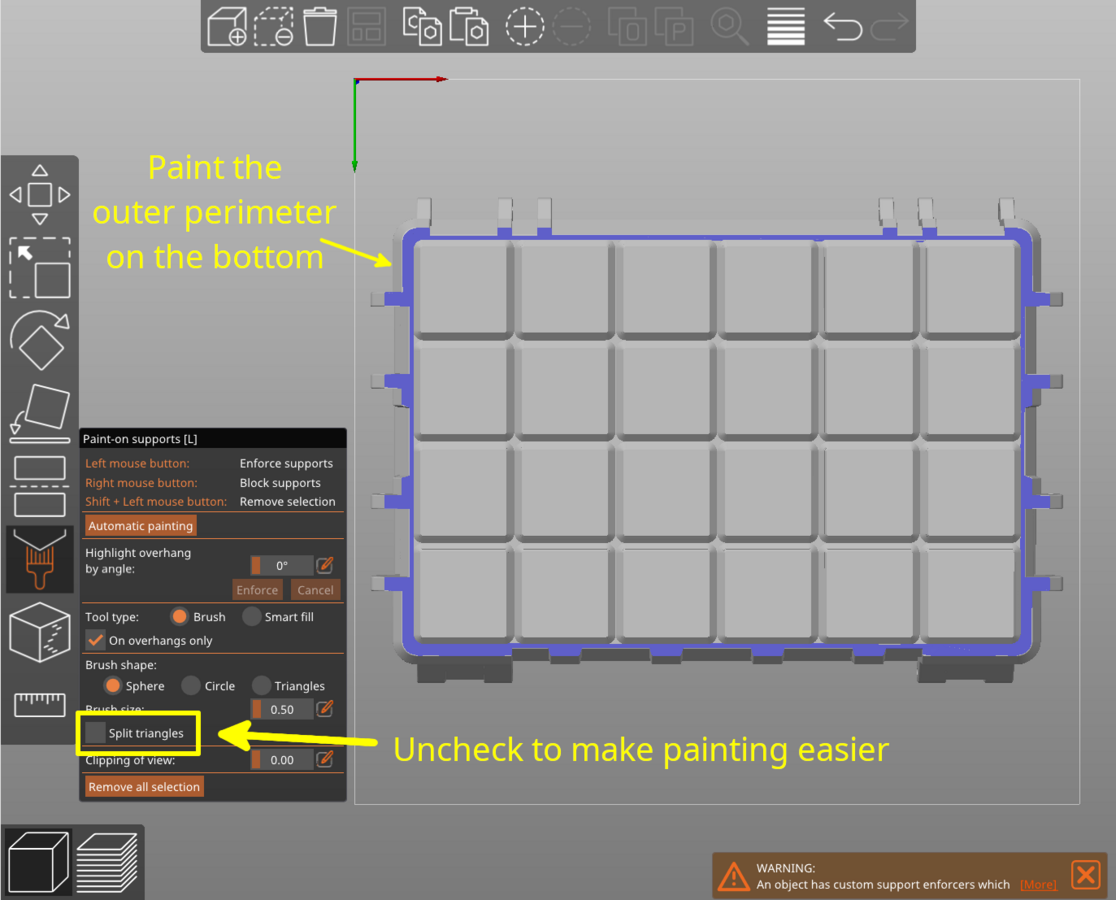
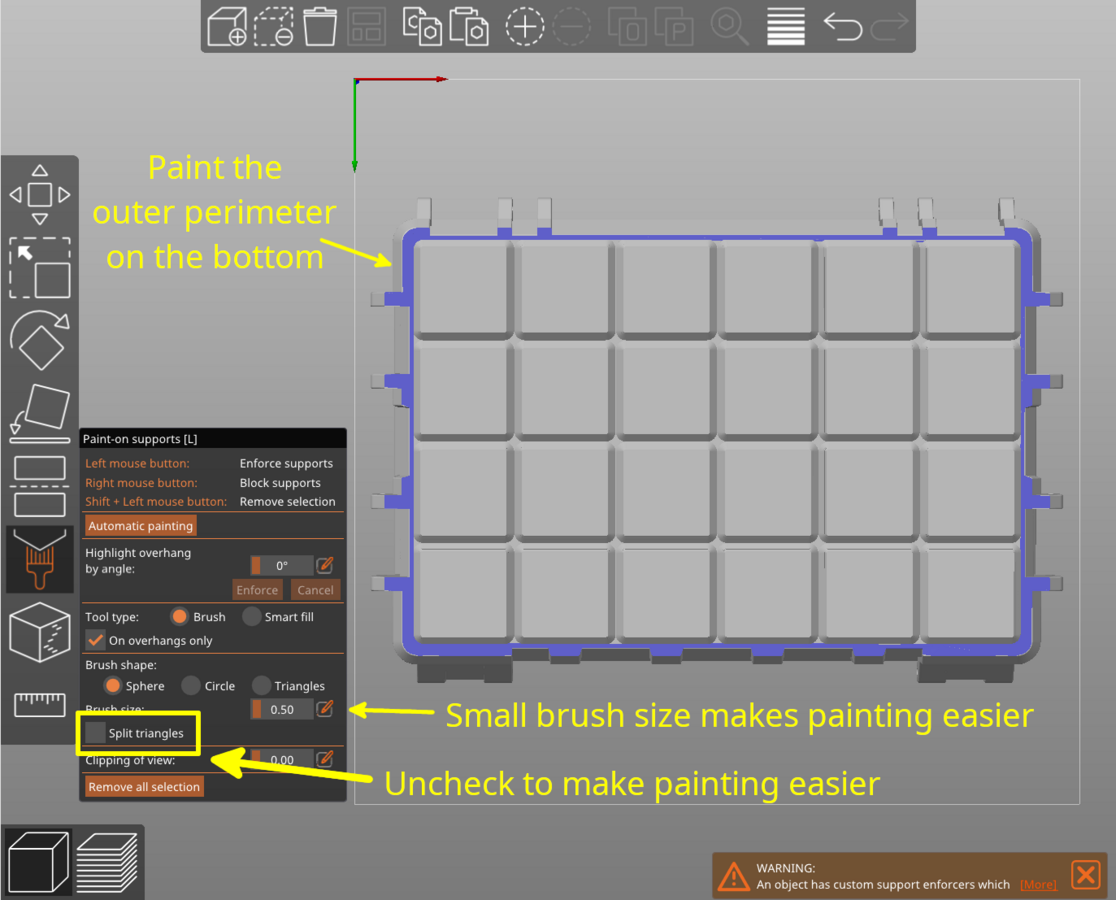
Update Gridfinity rugged box documentation

Changed region(s): [[0.1828, 0.7778, 0.914, 0.9022]]

diff --git a/gridfinity/rugged-box/README.md b/gridfinity/rugged-box/README.md
@@ -222,6 +222,8 @@ With the support painting tool (hotkey **L**):
 
 * Uncheck **Split triangles** near the bottom of the paint settings. This will
   speed up the manual painting process.
+* Set **Brush size** to a small value, such as **0.5**. This will make the
+  painting process easier.
 * Rotate the model so the underside is visible.
 * **Left-click** to paint supports on the outer perimeter that overhangs the
   base Gridfinity grid.
